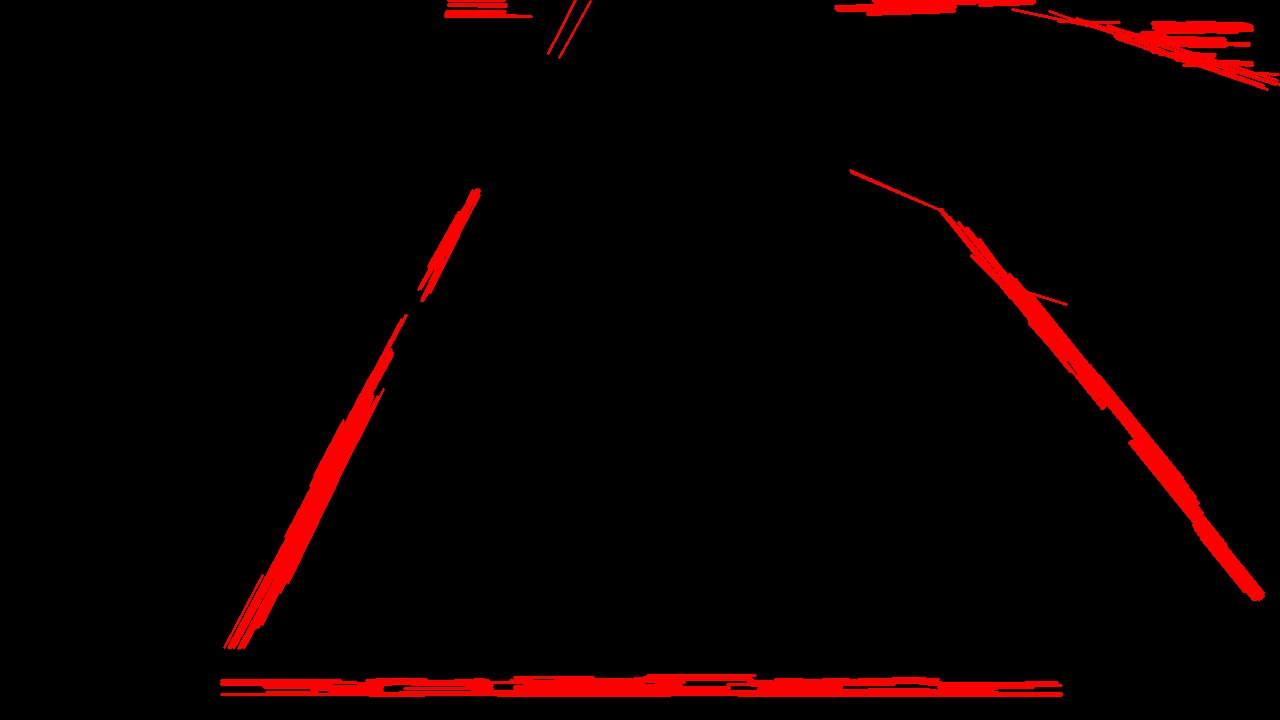
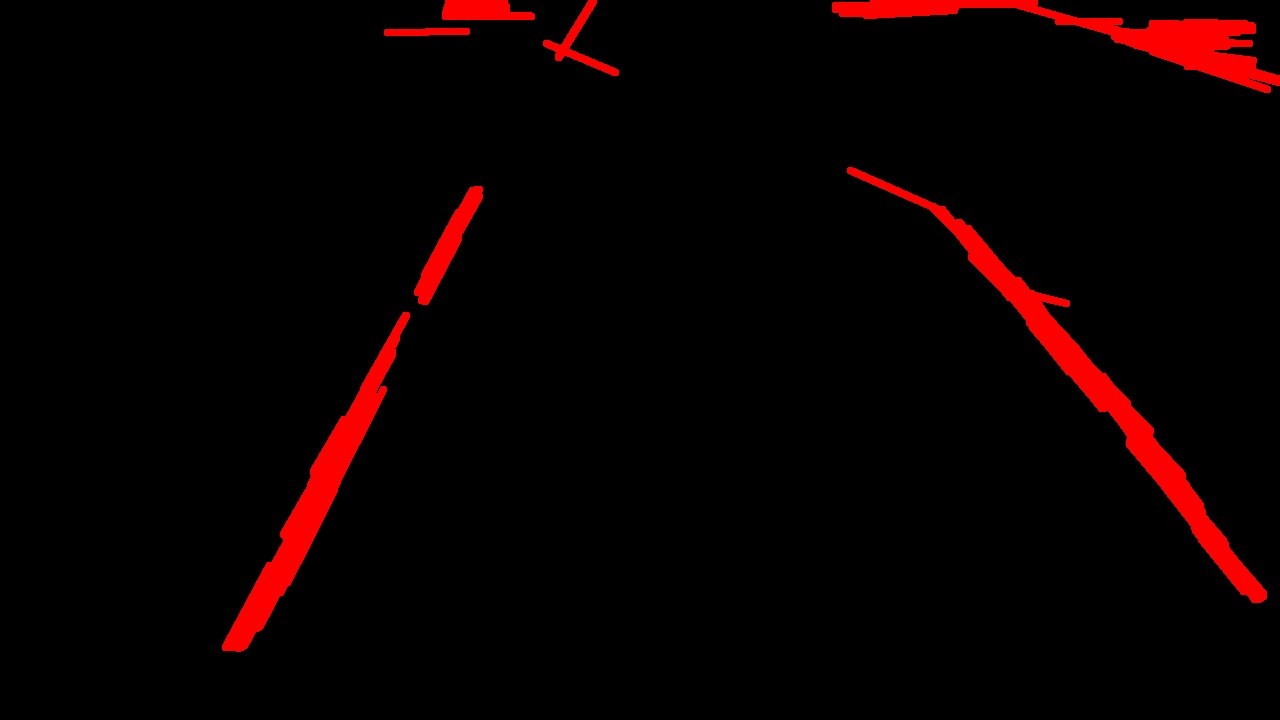
added windows removed bottom text

diff --git a/main.py b/main.py
@@ -41,6 +41,13 @@ if __name__ == '__main__':
     # reading in the image
     image_name = '0.jpg'
     image = cv2.imread('images/'+image_name)
+    # mask away the text on the bottom of the image
+    ymax = 650
+    xmax = 1280
+    mask = np.zeros(image.shape[:2],np.uint8) #720x1280
+    mask[0:ymax,0:xmax] = 255
+    image = cv2.bitwise_and(image,image,mask = mask)
+
     # color threshold to extract a range of white colors only that is associated with the lines on the ground
     low_threshold = 120
     high_threshold = 200
@@ -69,7 +76,26 @@ if __name__ == '__main__':
     minLen = 50
     maxGap = 20
     houghImage = houghLines(edges, rho, theta, threshold, minLen, maxGap)
-    imageToSave = cv2.cvtColor(houghImage, cv2.COLOR_RGB2BGR)
+
+    # dilate to make the lines stronger
+    dilated = cv2.dilate(houghImage, None, iterations=2)
+
+    imageToSave = cv2.cvtColor(dilated, cv2.COLOR_RGB2BGR)
     cv2.imwrite('output_images/'+image_name,imageToSave)
+    while True:
+        # for debugging
+        cv2.imshow("result", imageToSave)
+        #cv2.imshow("blurredImage", blurredImage)
+        #cv2.imshow("dilated", dilated)
+        #cv2.imshow("res", image)
+        #cv2.imshow("canny", edges)
+        #cv2.imshow("hough", houghImage)
+
+        # if the `q` key is pressed, break from the lop
+        key = cv2.waitKey(1)
+        if key == ord("q"):
+            break 
+    
+    cv2.destroyAllWindows()
 
 
